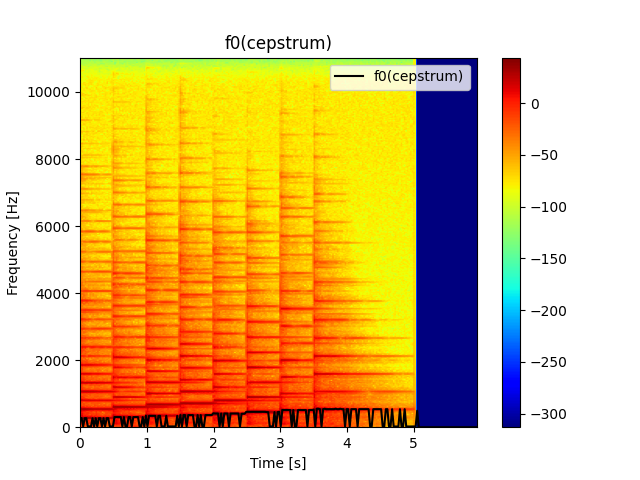
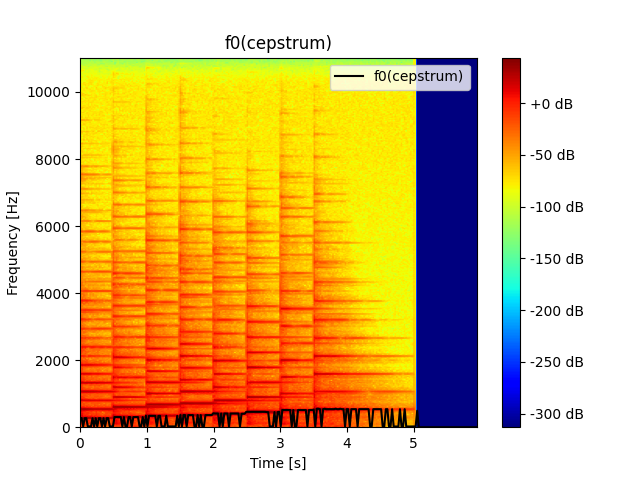
corrected miss you reviwed

diff --git a/ex4/d_ide/F0.py b/ex4/d_ide/F0.py
@@ -1,7 +1,7 @@
 """Fundamental frequency calculation."""
 import matplotlib.pyplot as plt
 import numpy as np
-import scipy.fftpack as fftpack
+import scipy.fft as fft
 
 
 def spec_cal(nfft, data, hop_length, window_func):
@@ -22,7 +22,7 @@ def spec_cal(nfft, data, hop_length, window_func):
     )
     for i in range(spectrogram.shape[1]):
         segment = data[i * hop_length: i * hop_length + nfft] * window_func
-        spectrum = fftpack.fft(segment, n=nfft, axis=0)[: 1 + nfft // 2]
+        spectrum = fft.fft(segment, n=nfft, axis=0)[: 1 + nfft // 2]
         spectrogram[:, i] = spectrum
 
     return spectrogram
@@ -175,12 +175,14 @@ def plot_F0(data, rate, nfft, hop_length, lifter, win):
     )
     ax1.set_xlabel("Time [s]")
     ax1.set_ylabel("Frequency [Hz]")
-    fig.colorbar(im, ax=ax1)
+    fig.colorbar(im, ax=ax1, format='%+2.0f dB')
     ax1.plot(x1_lim, f0, label="f0(auto-correlation)", color="black")
     ax1.legend()
     plt.savefig("F0(auto-correlation)")
     plt.tight_layout()
     plt.show()
+    plt.clf()
+    plt.close()
 
     fig = plt.figure()
     ax2 = fig.add_subplot(111)
@@ -194,7 +196,7 @@ def plot_F0(data, rate, nfft, hop_length, lifter, win):
     )
     ax2.set_xlabel("Time [s]")
     ax2.set_ylabel("Frequency [Hz]")
-    fig.colorbar(im, ax=ax2)
+    fig.colorbar(im, ax=ax2, format='%+2.0f dB')
     ax2.plot(x2_lim, f0_ceps, label="f0(cepstrum)", color="black")
     ax2.legend()
     plt.savefig("F0(cepstrum)")

diff --git a/ex4/d_ide/envelope.py b/ex4/d_ide/envelope.py
@@ -116,8 +116,8 @@ def plot_envelope(data, nfft, fs, lifter, dimension):
         lpc_data[: nfft // 2],
         label="LPC"
     )
-    plt.xlabel("Frequency")
-    plt.ylabel("Amplitude")
+    plt.xlabel("Frequency [Hz]")
+    plt.ylabel("Amplitude [db]")
     plt.savefig("envelope")
     plt.legend()
     plt.show()
